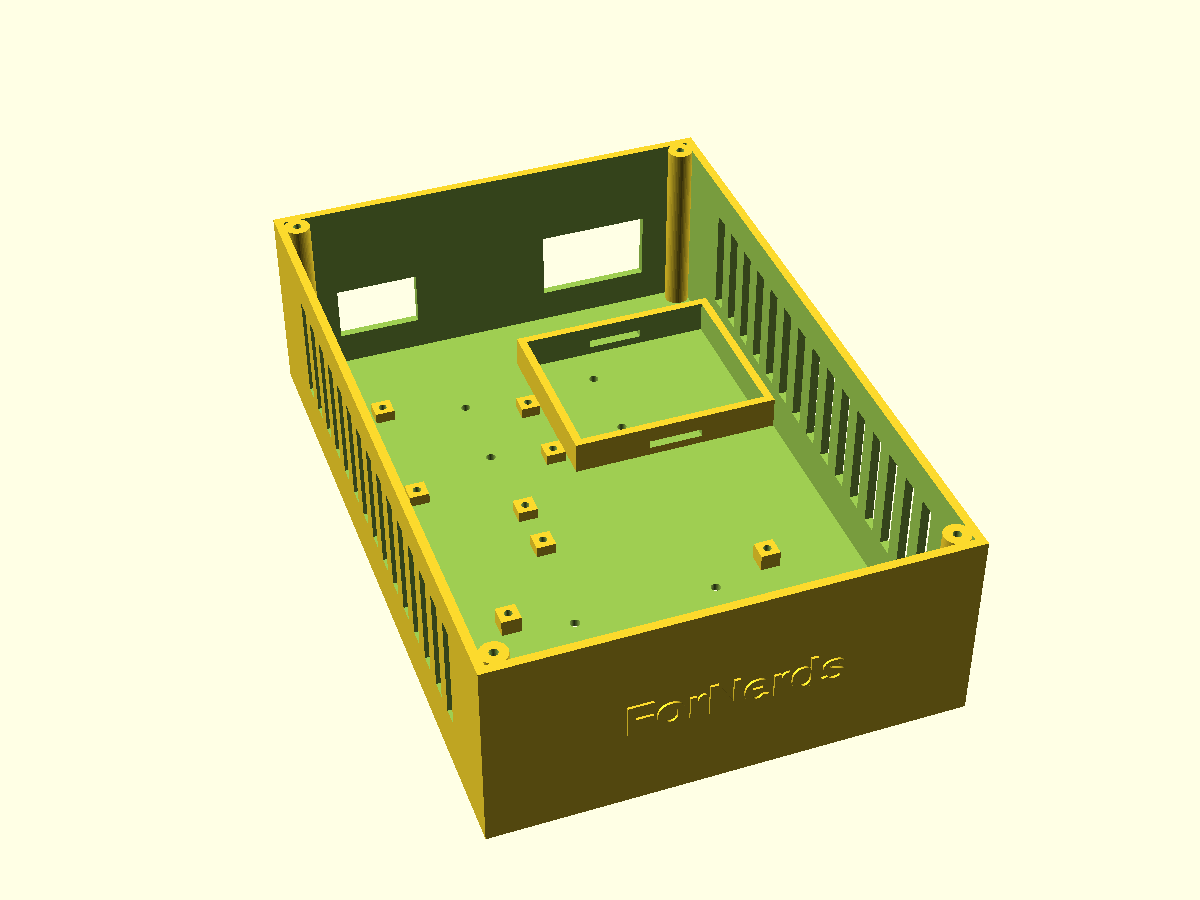
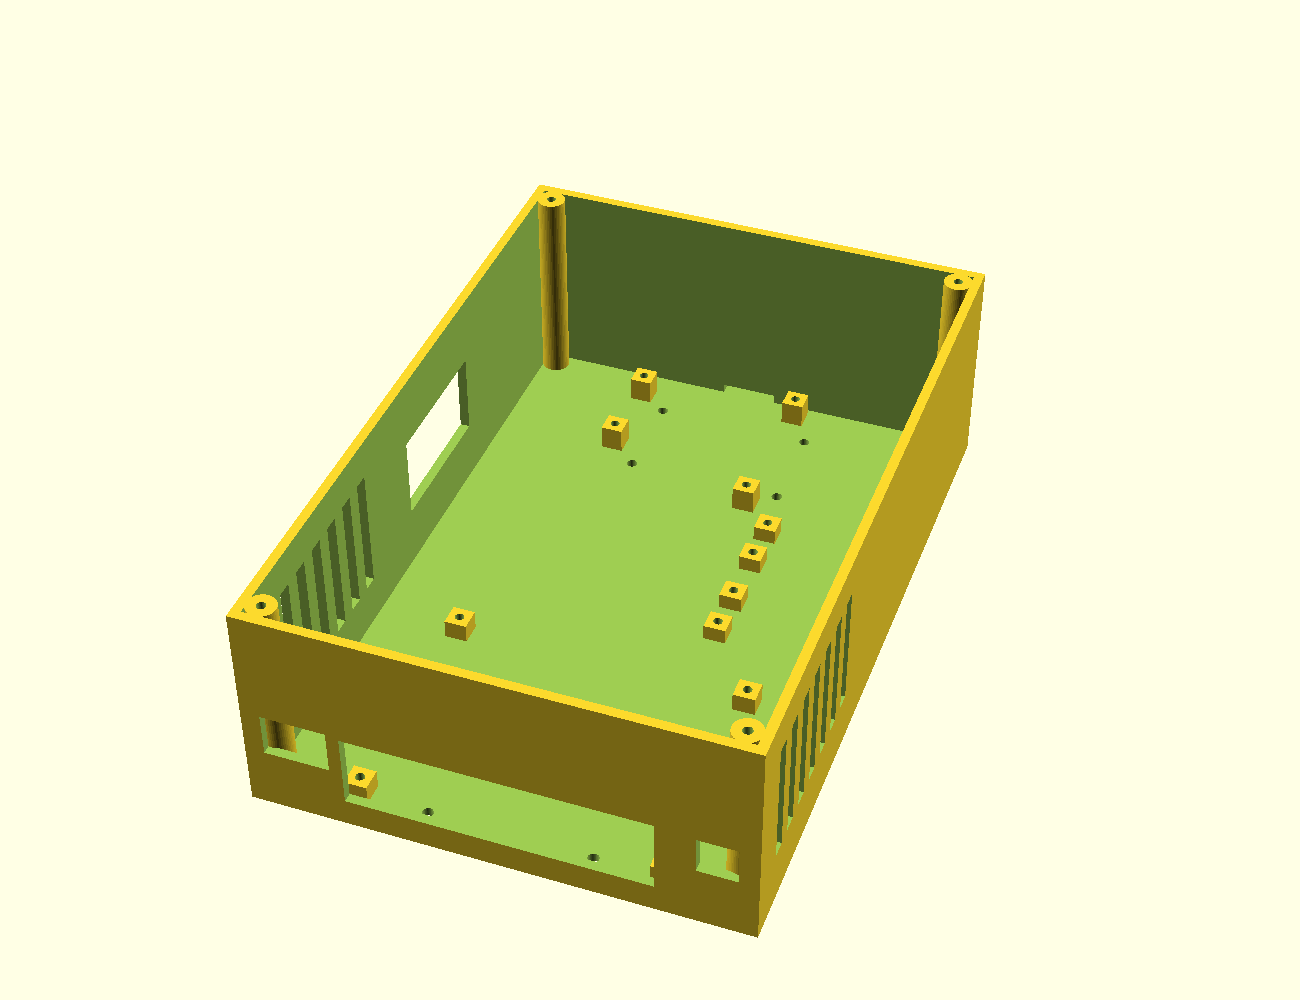
케이스: 나사 구멍 기준 재배치(패턴 중심 166, 30변=길이) · 전면=아두이노+바닥카메라 · 실측 기준점 정정
자동운전 사이클 595가 195.5를 차체 길이로, 121을 유효 전폭으로 '확정'한 것을
사용자 확인값(바깥 나사 간 거리 / BOTTOM 뒷벽~TOPRight 뒤끝)으로 바로잡음.
기존 값대로면 앞 나사 줄이 케이스 벽 밖(y=-0.25)에 뚫렸다.

Changed region(s): [[0.1542, 0.1556, 0.8325, 0.9333], [0.4317, 0.56, 0.4625, 0.6222]]

diff --git a/hardware_design/case/README.md b/hardware_design/case/README.md
@@ -8,7 +8,7 @@
 ## 구조
 | 부품 | 들어가는 것 |
 |---|---|
-| `tray` | 젯슨·아두이노·배터리·전원 컨버터. 바닥이 차체 상판의 **M3 50×30 패턴 두 벌**에 그대로 박힌다. 좌우 환기, 뒷벽 포트, 전면 "ForNerds" 양각 |
+| `tray` | 151.9 × 225 × 70. **앞=아두이노**(+바닥 카메라 선반), 가운데 왼쪽=벅부스트 2개, 오른쪽 벽=전압·전류계 창, **뒤=젯슨**(단자는 뒷벽). 바닥이 차체 상판의 **M3 50×30 패턴 두 벌(중심 간격 166)**에 그대로 박힌다. 전면 "ForNerds" 양각 |
 | `lid` | 회전 베어링 하부 링 볼트, 밑에 STS3215 서보 걸이, 180° 배선 슬롯, 스토퍼 홈 |
 | `platform` | SO-101 베이스 구멍, Orbbec 1/4" 나사 자리, 서보 혼, 베어링 상부 링, 스토퍼 핀 |
 
@@ -18,6 +18,10 @@
 - **배선은 중심을 못 지난다** — 서보 축이 중심에 있다. 뚜껑의 180° 호형 슬롯을 따라
   회전판의 구멍이 함께 돈다. 슬롯은 서보 몸체 반대편(−X).
 - **180°는 스토퍼 핀+홈으로 기계적으로 막는다** — 소프트 리밋만 믿으면 오지령 한 번에 배선이 끊긴다.
+
+- **배터리는 트레이에 없다** — 4S3P 팩이 들어갈 자리가 안 남는다. 지금처럼 차체 아래(BOTTOM)에 둔다(크기 실측 후 재검토).
+- **바닥 카메라를 앞으로 옮기면**: 젯슨 CSI 단자(뒤)까지 약 20cm라 기본 15cm 리본이 안 닿는다(30cm 필요).
+  또 라인 주행의 앞뒤·부호가 지금 카메라 위치에 묶여 있으니 옮긴 뒤 `/settings`에서 축 부호·영점을 다시 잡는다.
 
 ## 뽑기
 ```
